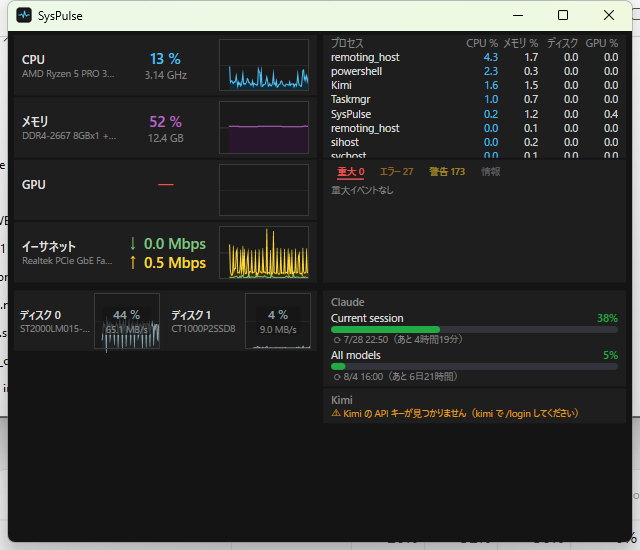
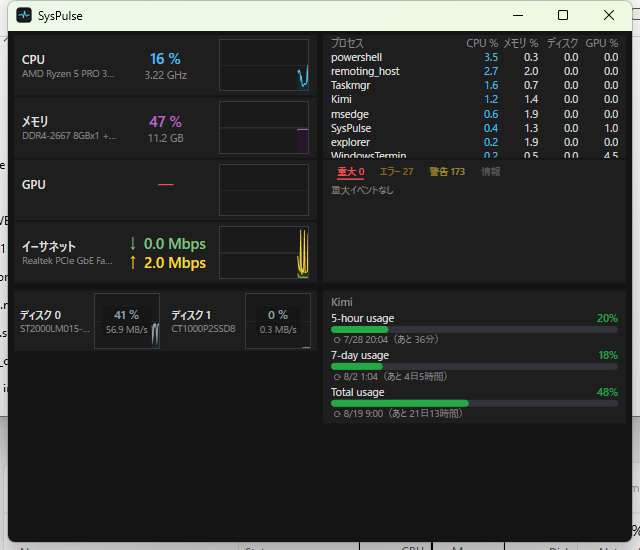
Kimi 使用量取得を再構築(config.json の kimiApiKey 優先・OAuth フォールバック・旧キーで Total usage 補完)

diff --git a/src/SysPulse.App/Usage/Providers.cs b/src/SysPulse.App/Usage/Providers.cs
@@ -136,15 +136,33 @@ public sealed class ClaudeProvider : IUsageProvider
 
 /// <summary>
 /// Kimi Code (Kimi メンバーシップ) の使用量。
-/// GET {base_url}/usages  （実測: https://agent-gw.kimi.com/coding/v1/usages → 200）
-/// 認証: kimi-code config.toml の [providers.*] type="kimi" → api_key / base_url（読むだけ）
-/// レスポンス: totalQuota { limit, used, remaining, resetTime(UTC) }
+/// GET {base_url}/usages  （実測: https://api.kimi.com/coding/v1/usages → 200）
+/// 認証(読むだけ原則)の優先順:
+///   1. SysPulse の config.json の kimiApiKey(Kimi Code Console で発行する API キー)
+///   2. kimi-code config.toml の [providers.*] → api_key / base_url(Kimi Work 同梱ランタイム互換)
+///   3. ~/.kimi-code/credentials/kimi-code.json の access_token
+///      (新 Kimi Code CLI の OAuth 認証。15 分で切れるため CLI 使用直後しか有効でない。
+///       あくまでフォールバック)
+/// なお Total usage(totalQuota)は agent-gw 系の base_url でしか返らず、コンソールキー
+/// (scope: FEATURE_CODING)では取れない。そのため 1 または 3 が主認証のときも、
+/// config.toml に旧キーが残っていれば agent-gw を併せて叩き Total usage を補完する。
+/// レスポンス: usage / limits[] / totalQuota { limit, used, remaining, resetTime(UTC) }
 /// ※ 非公式API。CLI の /usage と同じ経路。スキーマ変更時は --debug で確認。
 /// </summary>
 public sealed class KimiProvider : IUsageProvider
 {
     public string Id => "kimi";
     public string DisplayName => "Kimi";
+
+    const string PublicBaseUrl = "https://api.kimi.com/coding/v1";
+
+    readonly string? _configApiKey;
+
+    /// <summary>configApiKey: SysPulse の config.json の kimiApiKey(あれば最優先)。</summary>
+    public KimiProvider(string? configApiKey = null)
+    {
+        _configApiKey = string.IsNullOrWhiteSpace(configApiKey) ? null : configApiKey.Trim();
+    }
 
     static string[] CandidateConfigPaths() =>
     [
@@ -160,47 +178,77 @@ public sealed class KimiProvider : IUsageProvider
     {
         var snap = new UsageSnapshot { ProviderId = Id, DisplayName = DisplayName };
 
-        var path = CandidateConfigPaths().FirstOrDefault(File.Exists);
-        if (path == null)
+        // 認証の解決(優先順はクラスコメント参照)
+        string? token = null, baseUrl = null;
+        var authSource = "";
+        if (_configApiKey != null)
         {
-            snap.AuthMessage = "Kimi Code が見つかりません（kimi で /login してください）";
-            return snap;
+            token = _configApiKey;
+            baseUrl = PublicBaseUrl;
+            authSource = "config";
+        }
+        else
+        {
+            if (TryReadTomlCredential(out var tomlKey, out var tomlUrl, out var tomlError))
+            {
+                token = tomlKey;
+                baseUrl = tomlUrl;
+                authSource = "toml";
+            }
+            else if (tomlError != null)
+            {
+                snap.Error = "設定ファイルの読み取りに失敗: " + tomlError;
+                return snap;
+            }
+            else
+            {
+                token = ReadOAuthAccessToken();
+                if (token != null)
+                {
+                    baseUrl = PublicBaseUrl;
+                    authSource = "oauth";
+                }
+            }
         }
 
-        string? apiKey, baseUrl;
-        try
+        if (token == null || baseUrl == null)
         {
-            (apiKey, baseUrl) = ParseKimiConfig(await File.ReadAllLinesAsync(path, ct));
-        }
-        catch (Exception ex)
-        {
-            snap.Error = "設定ファイルの読み取りに失敗: " + ex.Message;
-            return snap;
-        }
-
-        if (string.IsNullOrEmpty(apiKey) || string.IsNullOrEmpty(baseUrl))
-        {
-            snap.AuthMessage = "Kimi の API キーが見つかりません（kimi で /login してください）";
+            snap.AuthMessage = "Kimi の API キーが見つかりません"
+                + "（config.json に kimiApiKey を設定するか、kimi で /login してください）";
             return snap;
         }
 
         // 取得先は2系統（実測済み）:
         //  - {設定の base_url}/usages      … Kimi Work 同梱の agent-gw は totalQuota（Total usage）だけ返す
         //  - https://api.kimi.com/coding/v1/usages … 公式ホスト。usage（7-day）と limits[300分窓]（5-hour）が返る
+        // コンソールキー(scope: FEATURE_CODING)は agent-gw を叩けず(403 api_key_path_forbidden)、
+        // 旧 toml キー(scope: FEATURE_WORK)は totalQuota だけ返す。両方あれば併用して全ゲージを埋める。
         var primaryUrl = baseUrl.TrimEnd('/') + "/usages";
-        const string publicUrl = "https://api.kimi.com/coding/v1/usages";
-        var urls = new List<string> { primaryUrl };
-        if (!primaryUrl.Equals(publicUrl, StringComparison.OrdinalIgnoreCase)) urls.Add(publicUrl);
+        var publicUrl = PublicBaseUrl + "/usages";
+        var endpoints = new List<(string Url, string Token)> { (primaryUrl, token) };
+        if (!primaryUrl.Equals(publicUrl, StringComparison.OrdinalIgnoreCase))
+            endpoints.Add((publicUrl, token));
+
+        // Total usage 補完: 主認証が旧 toml キーでなくても、toml に有効なキーが
+        // 残っていれば agent-gw も追加で叩く(失効していれば Total usage が出ないだけ)
+        if (authSource != "toml" &&
+            TryReadTomlCredential(out var supKey, out var supUrl, out _) &&
+            supKey != token)
+        {
+            var agentUrl = supUrl!.TrimEnd('/') + "/usages";
+            if (endpoints.All(e => !e.Url.Equals(agentUrl, StringComparison.OrdinalIgnoreCase)))
+                endpoints.Add((agentUrl, supKey!));
+        }
 
         var gotAny = false;
         Exception? primaryError = null;
-        foreach (var url in urls)
+        foreach (var (url, epToken) in endpoints)
         {
             var isPrimary = url == primaryUrl;
             try
             {
                 using var req = new HttpRequestMessage(HttpMethod.Get, url);
-                req.Headers.Authorization = new AuthenticationHeaderValue("Bearer", apiKey);
+                req.Headers.Authorization = new AuthenticationHeaderValue("Bearer", epToken);
                 req.Headers.TryAddWithoutValidation("User-Agent", "usage-watcher/1.0");
                 using var res = await http.SendAsync(req, ct);
 
@@ -208,7 +256,15 @@ public sealed class KimiProvider : IUsageProvider
                 {
                     if (isPrimary)
                     {
-                        snap.AuthMessage = "Kimi の API キーが無効です（kimi で /login し直してください）";
+                        snap.AuthMessage = authSource switch
+                        {
+                            "config" => "config.json の kimiApiKey が無効です"
+                                + "（Kimi Code Console でキーを確認してください）",
+                            "oauth" => "Kimi のアクセストークンが期限切れです"
+                                + "（kimi CLI を一度使うと更新されます。恒久的には config.json に"
+                                + " kimiApiKey を設定してください）",
+                            _ => "Kimi の API キーが無効です（kimi で /login し直してください）",
+                        };
                         return snap;
                     }
                     continue; // 補助側の失敗は無視（取れるものだけ表示）
@@ -327,6 +383,58 @@ public sealed class KimiProvider : IUsageProvider
             double.TryParse(v.GetString(), NumberStyles.Float, CultureInfo.InvariantCulture, out var d))
             return d;
         return 0;
+    }
+
+    /// <summary>kimi-code config.toml(Kimi Code CLI ユーザ設定 or Kimi Work 同梱)から
+    /// api_key / base_url を読む。新 Kimi Code CLI は OAuth 方式で api_key が空のため、
+    /// 値があるとき(Kimi Work 同梱ランタイム等)だけ true を返す。
+    /// readError には読み取り例外のメッセージを返す(ファイル無し・キー空はエラー扱いしない)。</summary>
+    static bool TryReadTomlCredential(out string? apiKey, out string? baseUrl, out string? readError)
+    {
+        apiKey = baseUrl = readError = null;
+        // 候補を順に見て、api_key が実際に入っている最初の config.toml を採用する。
+        // (先頭の ~/.kimi-code/config.toml は新 CLI の OAuth 方式で api_key が空。
+        //  Kimi Work 同梱側に有効なキーが残っていることがある)
+        foreach (var path in CandidateConfigPaths())
+        {
+            if (!File.Exists(path)) continue;
+            try
+            {
+                var (k, u) = ParseKimiConfig(File.ReadAllLines(path));
+                if (string.IsNullOrEmpty(k) || string.IsNullOrEmpty(u)) continue;
+                apiKey = k;
+                baseUrl = u;
+                return true;
+            }
+            catch (Exception ex)
+            {
+                readError = ex.Message;
+                return false;
+            }
+        }
+        return false;
+    }
+
+    /// <summary>~/.kimi-code/credentials/kimi-code.json の access_token を読む(OAuth フォールバック)。
+    /// 新 Kimi Code CLI の OAuth 認証ファイル。有効期限は 15 分で、kimi CLI が使われるたびに更新される。
+    /// 読み取り専用。書き込みは本家 CLI のログインを壊す恐れがあるため絶対にしない。</summary>
+    static string? ReadOAuthAccessToken()
+    {
+        try
+        {
+            var path = Path.Combine(Environment.GetFolderPath(Environment.SpecialFolder.UserProfile),
+                ".kimi-code", "credentials", "kimi-code.json");
+            if (!File.Exists(path)) return null;
+            using var json = JsonDocument.Parse(File.ReadAllText(path));
+            if (json.RootElement.TryGetProperty("access_token", out var t) &&
+                t.ValueKind == JsonValueKind.String)
+                return t.GetString();
+        }
+        catch
+        {
+            // フォールバックなので失敗しても黙って次へ
+        }
+        return null;
     }
 
     /// <summary>

diff --git a/src/SysPulse.App/MainWindow.xaml.cs b/src/SysPulse.App/MainWindow.xaml.cs
@@ -243,7 +243,7 @@ public partial class MainWindow : Window
         // AI Usage ポーリング(120秒周期 + 429 バックオフ。通信失敗時は直前値を保持)
         var providers = new List<IUsageProvider>();
         if (_usageSettings.EnableClaude) providers.Add(new ClaudeProvider());
-        if (_usageSettings.EnableKimi) providers.Add(new KimiProvider());
+        if (_usageSettings.EnableKimi) providers.Add(new KimiProvider(_config.KimiApiKey));
         foreach (var p in providers) _usagePanel.RegisterProvider(p.Id);
         _usagePoller = new UsagePoller(providers, _usageSettings);
         _usagePoller.SnapshotUpdated += snap =>

diff --git a/src/SysPulse.App/AppConfig.cs b/src/SysPulse.App/AppConfig.cs
@@ -14,6 +14,8 @@ public sealed class AppConfig
     [JsonPropertyName("intervalMs")] public int IntervalMs { get; set; } = 1000;
     [JsonPropertyName("namesRefreshSec")] public int NamesRefreshSec { get; set; } = 30;
     [JsonPropertyName("disks")] public List<DiskEntry> Disks { get; set; } = new();
+    /// <summary>Kimi Code Console で発行する API キー(sk-...)。AI Usage の Kimi 側認証で最優先。</summary>
+    [JsonPropertyName("kimiApiKey")] public string KimiApiKey { get; set; } = "";
 
     public sealed class DiskEntry
     {

diff --git a/README.md b/README.md
@@ -65,10 +65,15 @@
   "disks": [
     { "number": 3, "label": "システム" },
     { "number": 4, "label": "ゲーム" }
-  ]
+  ],
+  "kimiApiKey": ""
 }
 ```
 
+- `kimiApiKey`: Kimi Code Console で発行する API キー(sk-...)。
+  AI Usage の Kimi 側認証で最優先に使われる(後述)。**git 管理外の実値は
+  `publish/config.json` とインストール先にだけ置く**こと(リポジトリの
+  `src/SysPulse.App/config.json` は空のテンプレート)
 - `disks` が空 → Online ディスクを番号順に最大 10 台自動検出
 - `disks` を指定 → その順・ラベルで先頭から固定表示。残りの枠は固定以外の
   Online ディスクを番号順に自動追加(USB メモリ等の抜き差しに追従)
@@ -96,8 +101,22 @@
 - **認証(読むだけ原則)**: 認証ファイルは読み取り専用で開き、絶対に書き込まない
   (書き込むと本家 CLI のログインが壊れる)
   - Claude: `~/.claude/.credentials.json` の accessToken → `api.anthropic.com/api/oauth/usage`
-  - Kimi: `~/.kimi-code/config.toml`(無ければ Kimi Work 同梱の config.toml)の
-    api_key / base_url → `{base_url}/usages` と `api.kimi.com/coding/v1/usages`
+  - Kimi: 認証は次の優先順で解決 → `api.kimi.com/coding/v1/usages` 等を叩く
+    1. `config.json` の `kimiApiKey`(Kimi Code Console で発行。**推奨**)
+    2. `~/.kimi-code/config.toml`(無ければ Kimi Work 同梱の config.toml)の
+       api_key / base_url(Kimi Work 時代の互換経路)
+    3. `~/.kimi-code/credentials/kimi-code.json` の access_token
+       (新 Kimi Code CLI の OAuth 認証。15 分で切れるため CLI 使用直後しか
+       有効でない。あくまでフォールバック)
+    ※ 新 Kimi Code CLI は OAuth 方式のため config.toml の api_key は空。
+    リフレッシュは本家 CLI に任せ、こちらからは行わない
+    (認証ファイルに書き込むと本家のログインが壊れる恐れがあるため)
+  - Kimi の **Total usage**(totalQuota)は agent-gw 系の base_url でしか返らず、
+    コンソールキー(scope: FEATURE_CODING)では取れない
+    (agent-gw を叩くと 403 api_key_path_forbidden)。
+    そのため 1 または 3 が主認証のときも、config.toml に旧キー(Kimi Work 時代、
+    scope: FEATURE_WORK)が残っていれば agent-gw を併せて叩き Total usage を補完する。
+    旧キー失効時は Total usage だけ自動的に非表示になる
 - **設定共有**: `%LOCALAPPDATA%\UsageWatcher\settings.json` を単体版 Watcher と共有
   (しきい値・ポーリング間隔・プロバイダ有効/無効)。ログも同じフォルダに出る
 - ※ 両プロバイダとも非公式 API。スキーマ変更時は UsageWatcher 側と合わせて直す
